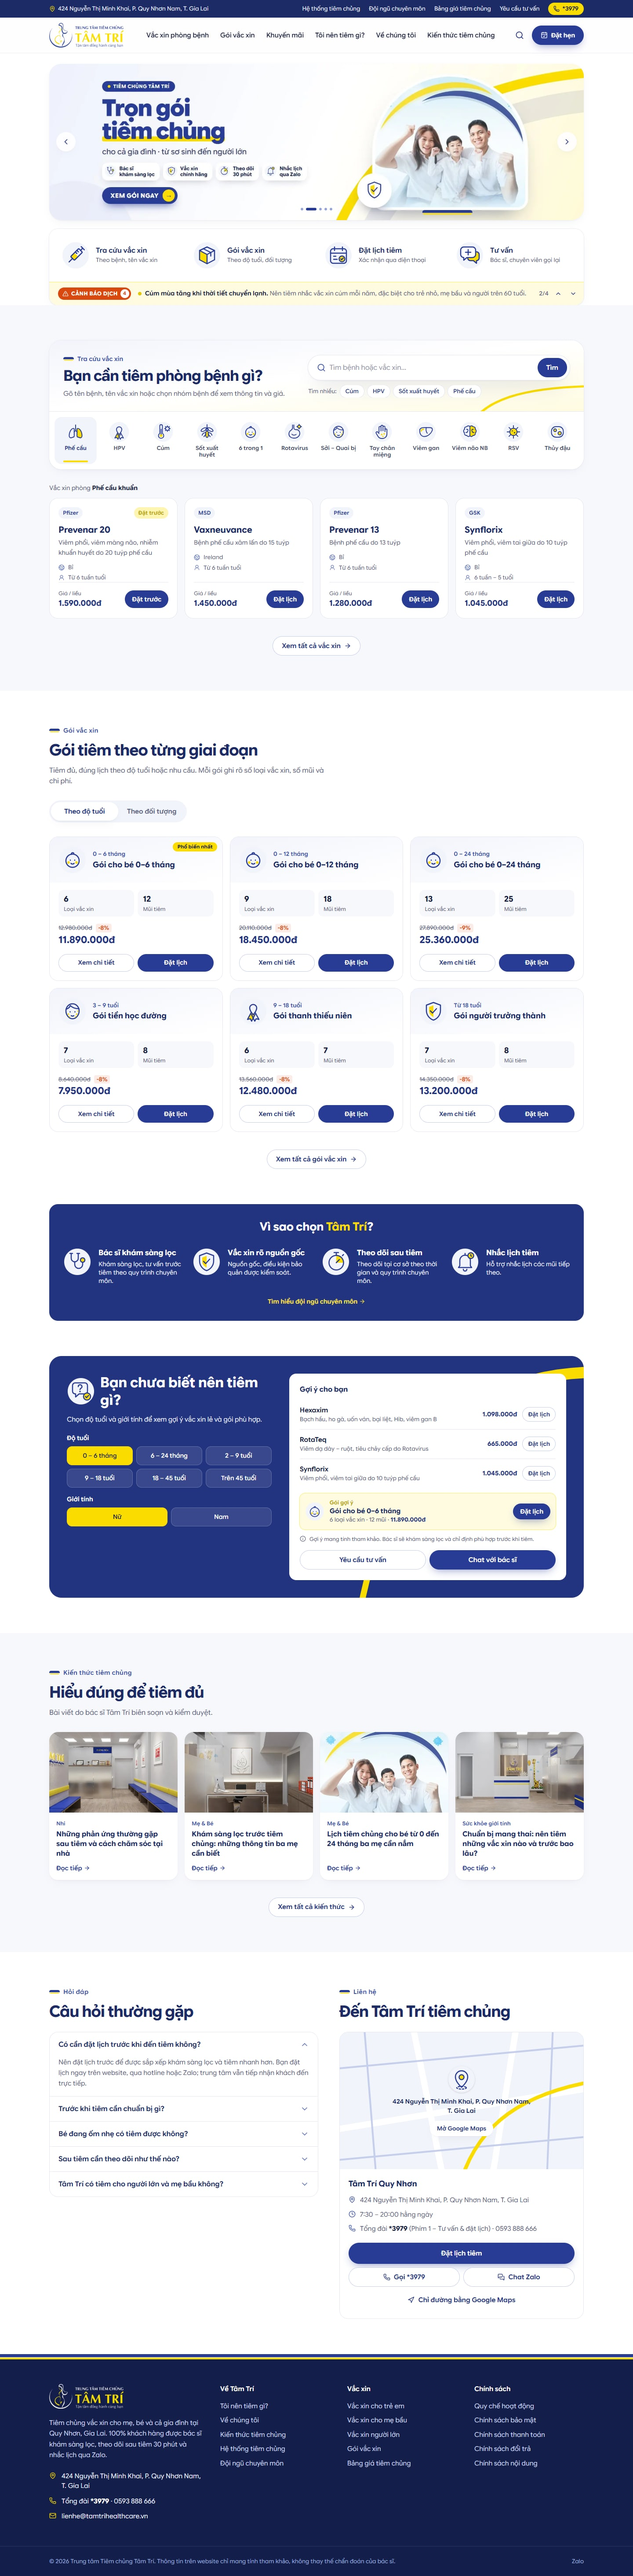
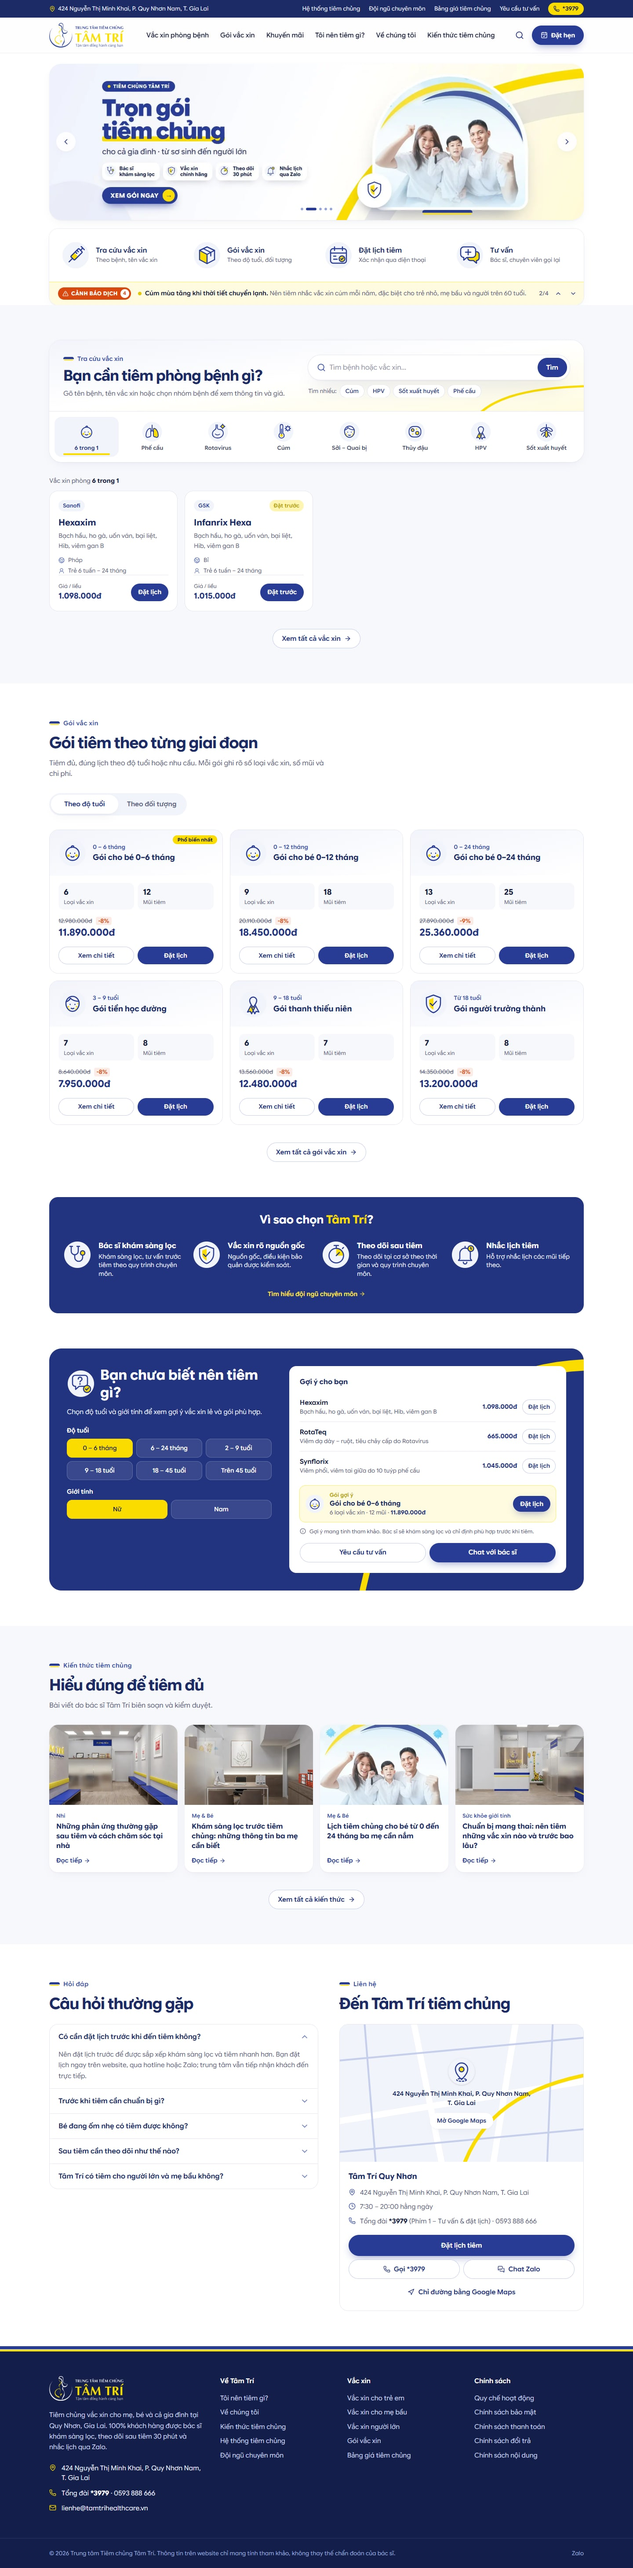
feat: trang chủ chỉ hiện 8 nhóm bệnh, lưới 4×2 trên mobile
Các nhóm khác vẫn tìm được qua ô tìm kiếm.

diff --git a/src/content/catalog.ts b/src/content/catalog.ts
@@ -2,19 +2,22 @@ import type { DiseaseGroup, Vaccine, VaccinePackage } from "./types";
 
 // Groups and brand names come from the client's "Danh mục tổng hợp vắc xin".
 // Prices are sample values until the admin enters the real price list.
+// `featured` groups show as tiles on the homepage, in this order (the baby's
+// schedule first). The rest stay reachable through search. Sample choice of
+// 8 groups (2026-10-26) until the client picks their own in the admin.
 export const diseaseGroups: DiseaseGroup[] = [
-  { slug: "phe-cau", name: "Phế cầu khuẩn", shortName: "Phế cầu", icon: "lungs", featured: true },
-  { slug: "hpv", name: "Phòng HPV – ung thư cổ tử cung", shortName: "HPV", icon: "hpv", featured: true },
-  { slug: "cum", name: "Cúm mùa", shortName: "Cúm", icon: "influenza", featured: true },
-  { slug: "sot-xuat-huyet", name: "Sốt xuất huyết", shortName: "Sốt xuất huyết", icon: "mosquito", featured: true },
   { slug: "6-trong-1", name: "6 trong 1", shortName: "6 trong 1", icon: "baby", featured: true },
+  { slug: "phe-cau", name: "Phế cầu khuẩn", shortName: "Phế cầu", icon: "lungs", featured: true },
   { slug: "rotavirus", name: "Tiêu chảy do Rotavirus", shortName: "Rotavirus", icon: "rotavirus", featured: true },
+  { slug: "cum", name: "Cúm mùa", shortName: "Cúm", icon: "influenza", featured: true },
   { slug: "soi-quai-bi-rubella", name: "Sởi – Quai bị – Rubella", shortName: "Sởi – Quai bị", icon: "rash", featured: true },
-  { slug: "tay-chan-mieng", name: "Tay chân miệng", shortName: "Tay chân miệng", icon: "hand", featured: true },
-  { slug: "viem-gan", name: "Viêm gan A, B", shortName: "Viêm gan", icon: "liver", featured: true },
-  { slug: "viem-nao-nhat-ban", name: "Viêm não Nhật Bản", shortName: "Viêm não NB", icon: "brain", featured: true },
-  { slug: "rsv", name: "Virus hợp bào hô hấp RSV", shortName: "RSV", icon: "virus", featured: true },
   { slug: "thuy-dau", name: "Thủy đậu", shortName: "Thủy đậu", icon: "blister", featured: true },
+  { slug: "hpv", name: "Phòng HPV – ung thư cổ tử cung", shortName: "HPV", icon: "hpv", featured: true },
+  { slug: "sot-xuat-huyet", name: "Sốt xuất huyết", shortName: "Sốt xuất huyết", icon: "mosquito", featured: true },
+  { slug: "tay-chan-mieng", name: "Tay chân miệng", shortName: "Tay chân miệng", icon: "hand", featured: false },
+  { slug: "viem-gan", name: "Viêm gan A, B", shortName: "Viêm gan", icon: "liver", featured: false },
+  { slug: "viem-nao-nhat-ban", name: "Viêm não Nhật Bản", shortName: "Viêm não NB", icon: "brain", featured: false },
+  { slug: "rsv", name: "Virus hợp bào hô hấp RSV", shortName: "RSV", icon: "virus", featured: false },
 ];
 
 export const vaccines: Vaccine[] = [

diff --git a/src/components/home/vaccine-finder.tsx b/src/components/home/vaccine-finder.tsx
@@ -118,7 +118,7 @@ export function VaccineFinder({ groups, vaccines }: Props) {
           <div
             role="tablist"
             aria-label="Nhóm bệnh"
-            className="no-scrollbar flex gap-0.5 overflow-x-auto border-t border-line p-1.5 md:gap-1 md:p-3 lg:grid lg:grid-cols-12 lg:overflow-visible"
+            className="grid grid-cols-4 gap-0.5 border-t border-line p-1.5 md:grid-cols-8 md:gap-1 md:p-3"
           >
             {groups.map((group) => {
               const selected = !term && group.slug === active.slug;
@@ -133,7 +133,7 @@ export function VaccineFinder({ groups, vaccines }: Props) {
                     setQuery("");
                     setActiveSlug(group.slug);
                   }}
-                  className={`relative flex w-[19%] shrink-0 flex-col items-center gap-1 rounded-xl px-0.5 pt-1.5 pb-2.5 text-center md:gap-1.5 md:rounded-2xl md:px-1 md:pt-2.5 md:pb-3 transition sm:w-[15%] lg:w-auto ${
+                  className={`relative flex flex-col items-center gap-1 rounded-xl px-0.5 pt-1.5 pb-2.5 text-center md:gap-1.5 md:rounded-2xl md:px-1 md:pt-2.5 md:pb-3 transition ${
                     selected ? "bg-brand-50" : "hover:bg-canvas"
                   }`}
                 >
